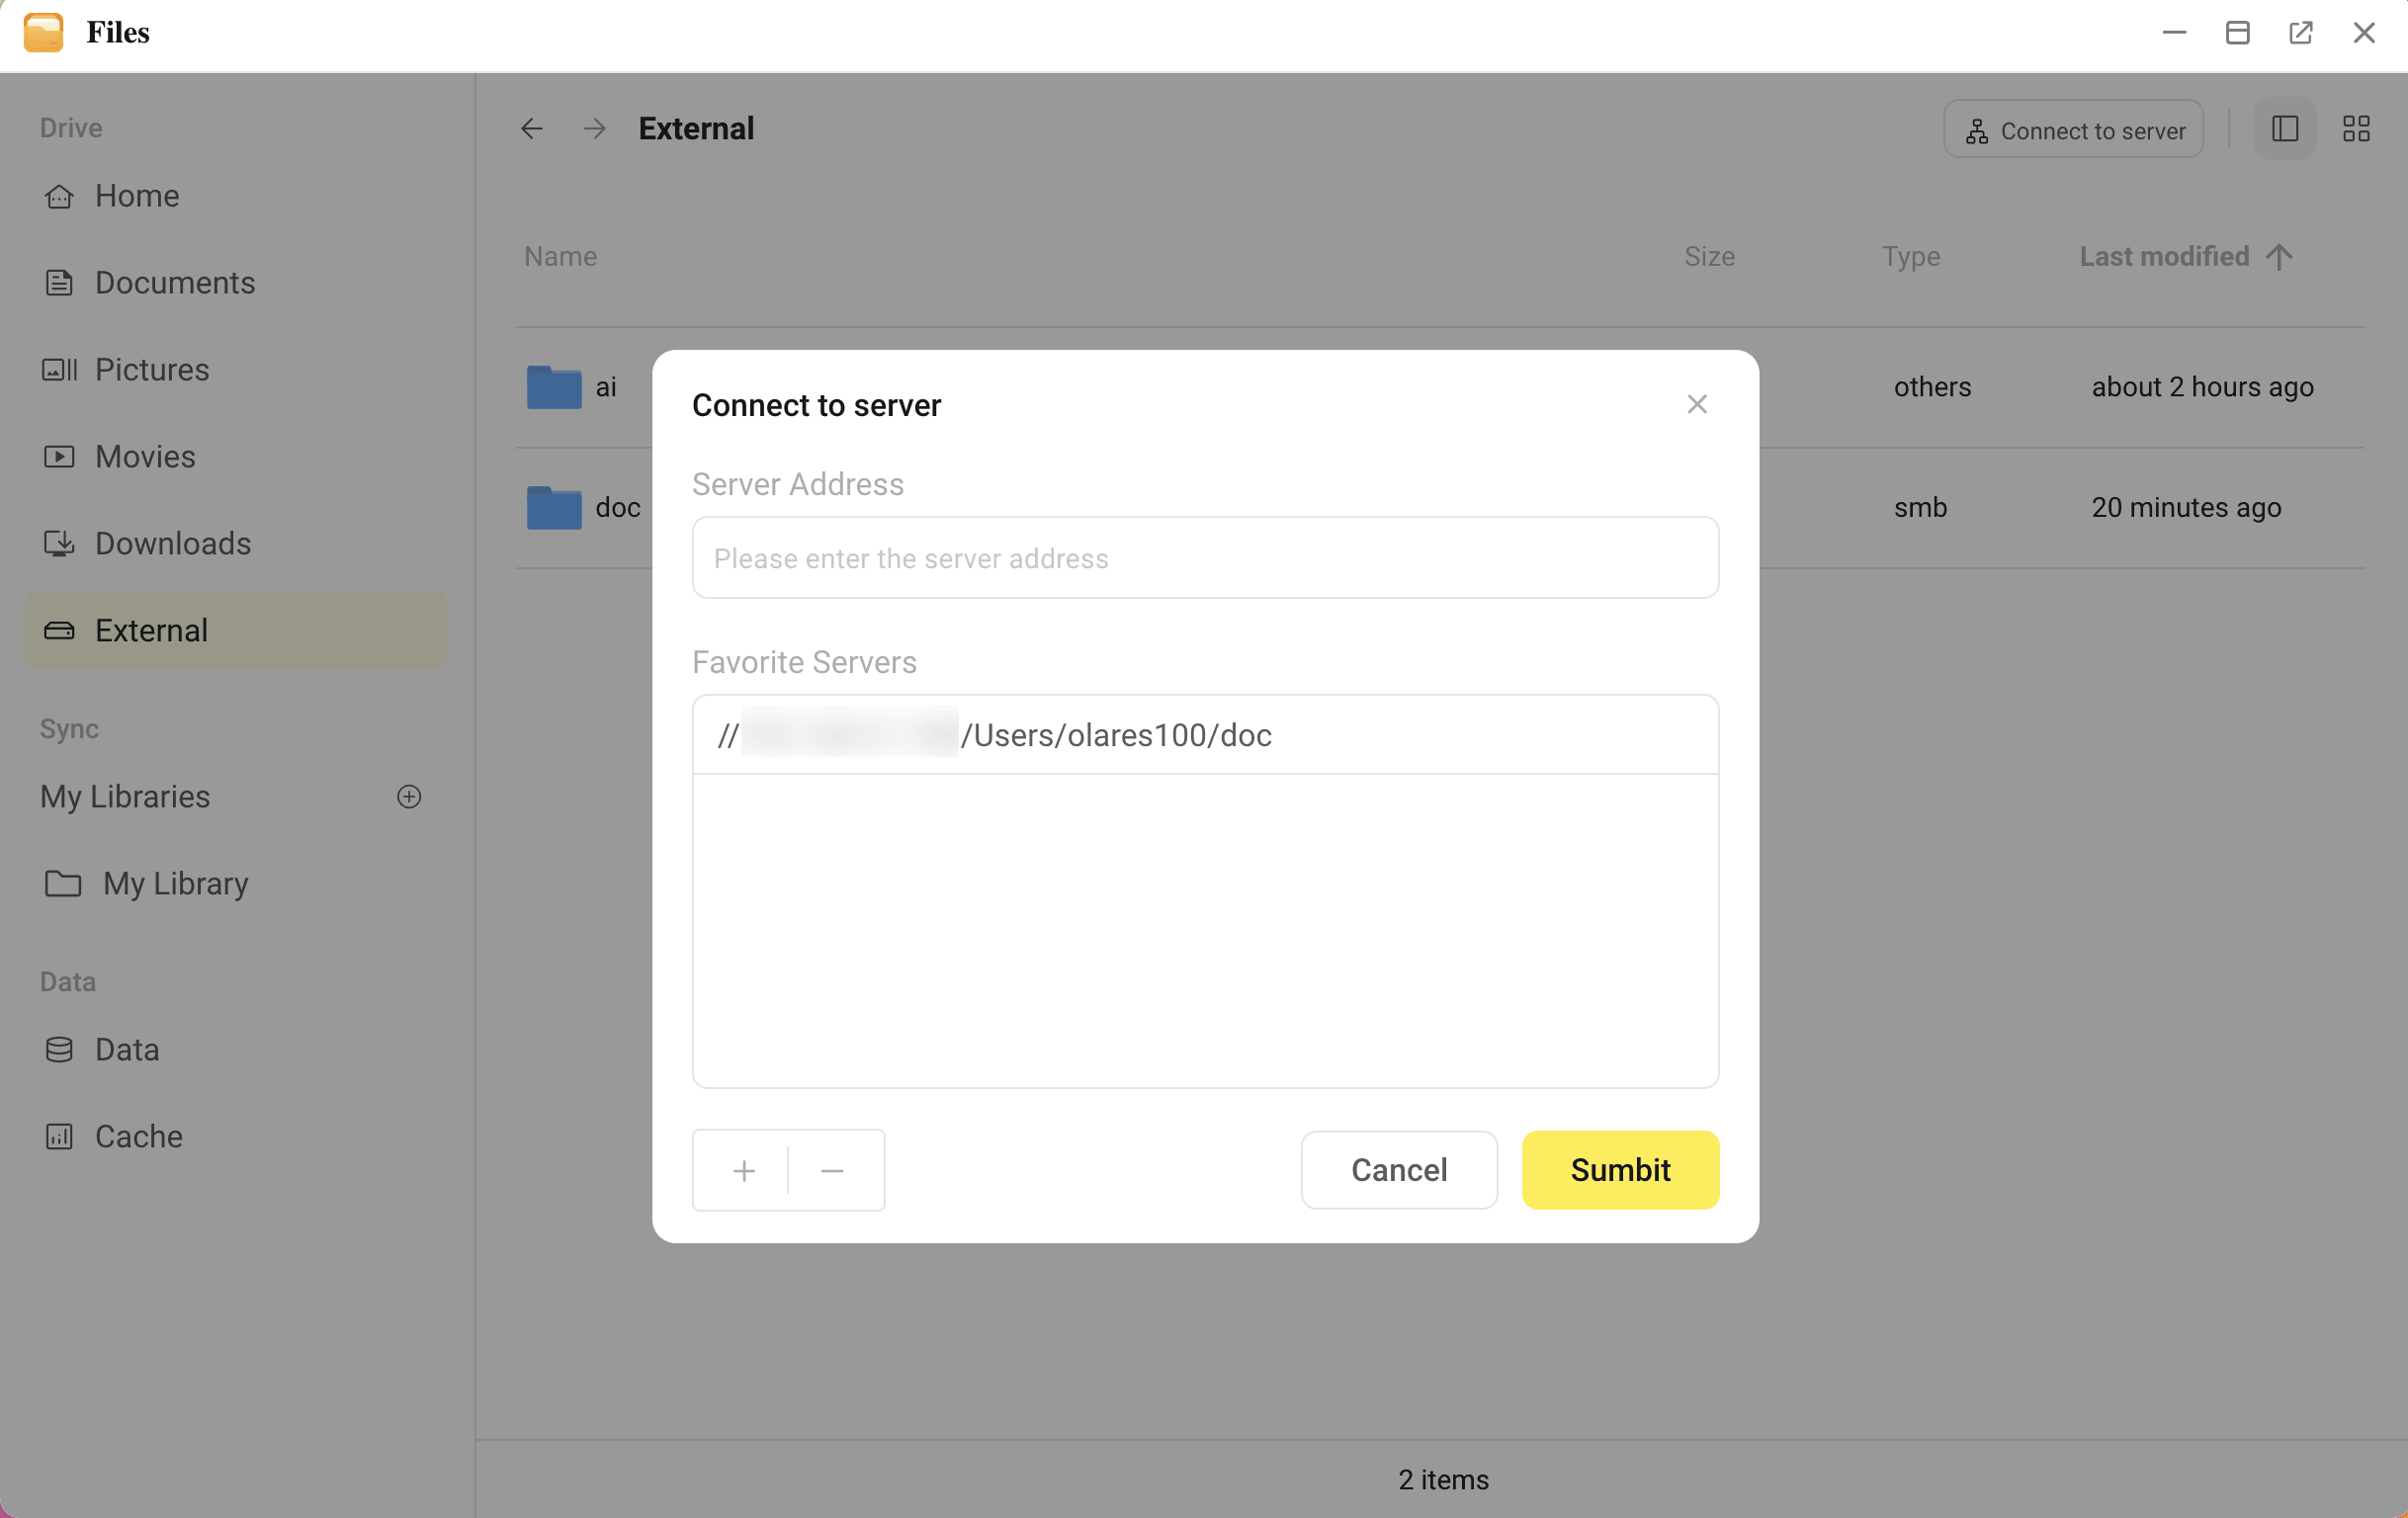
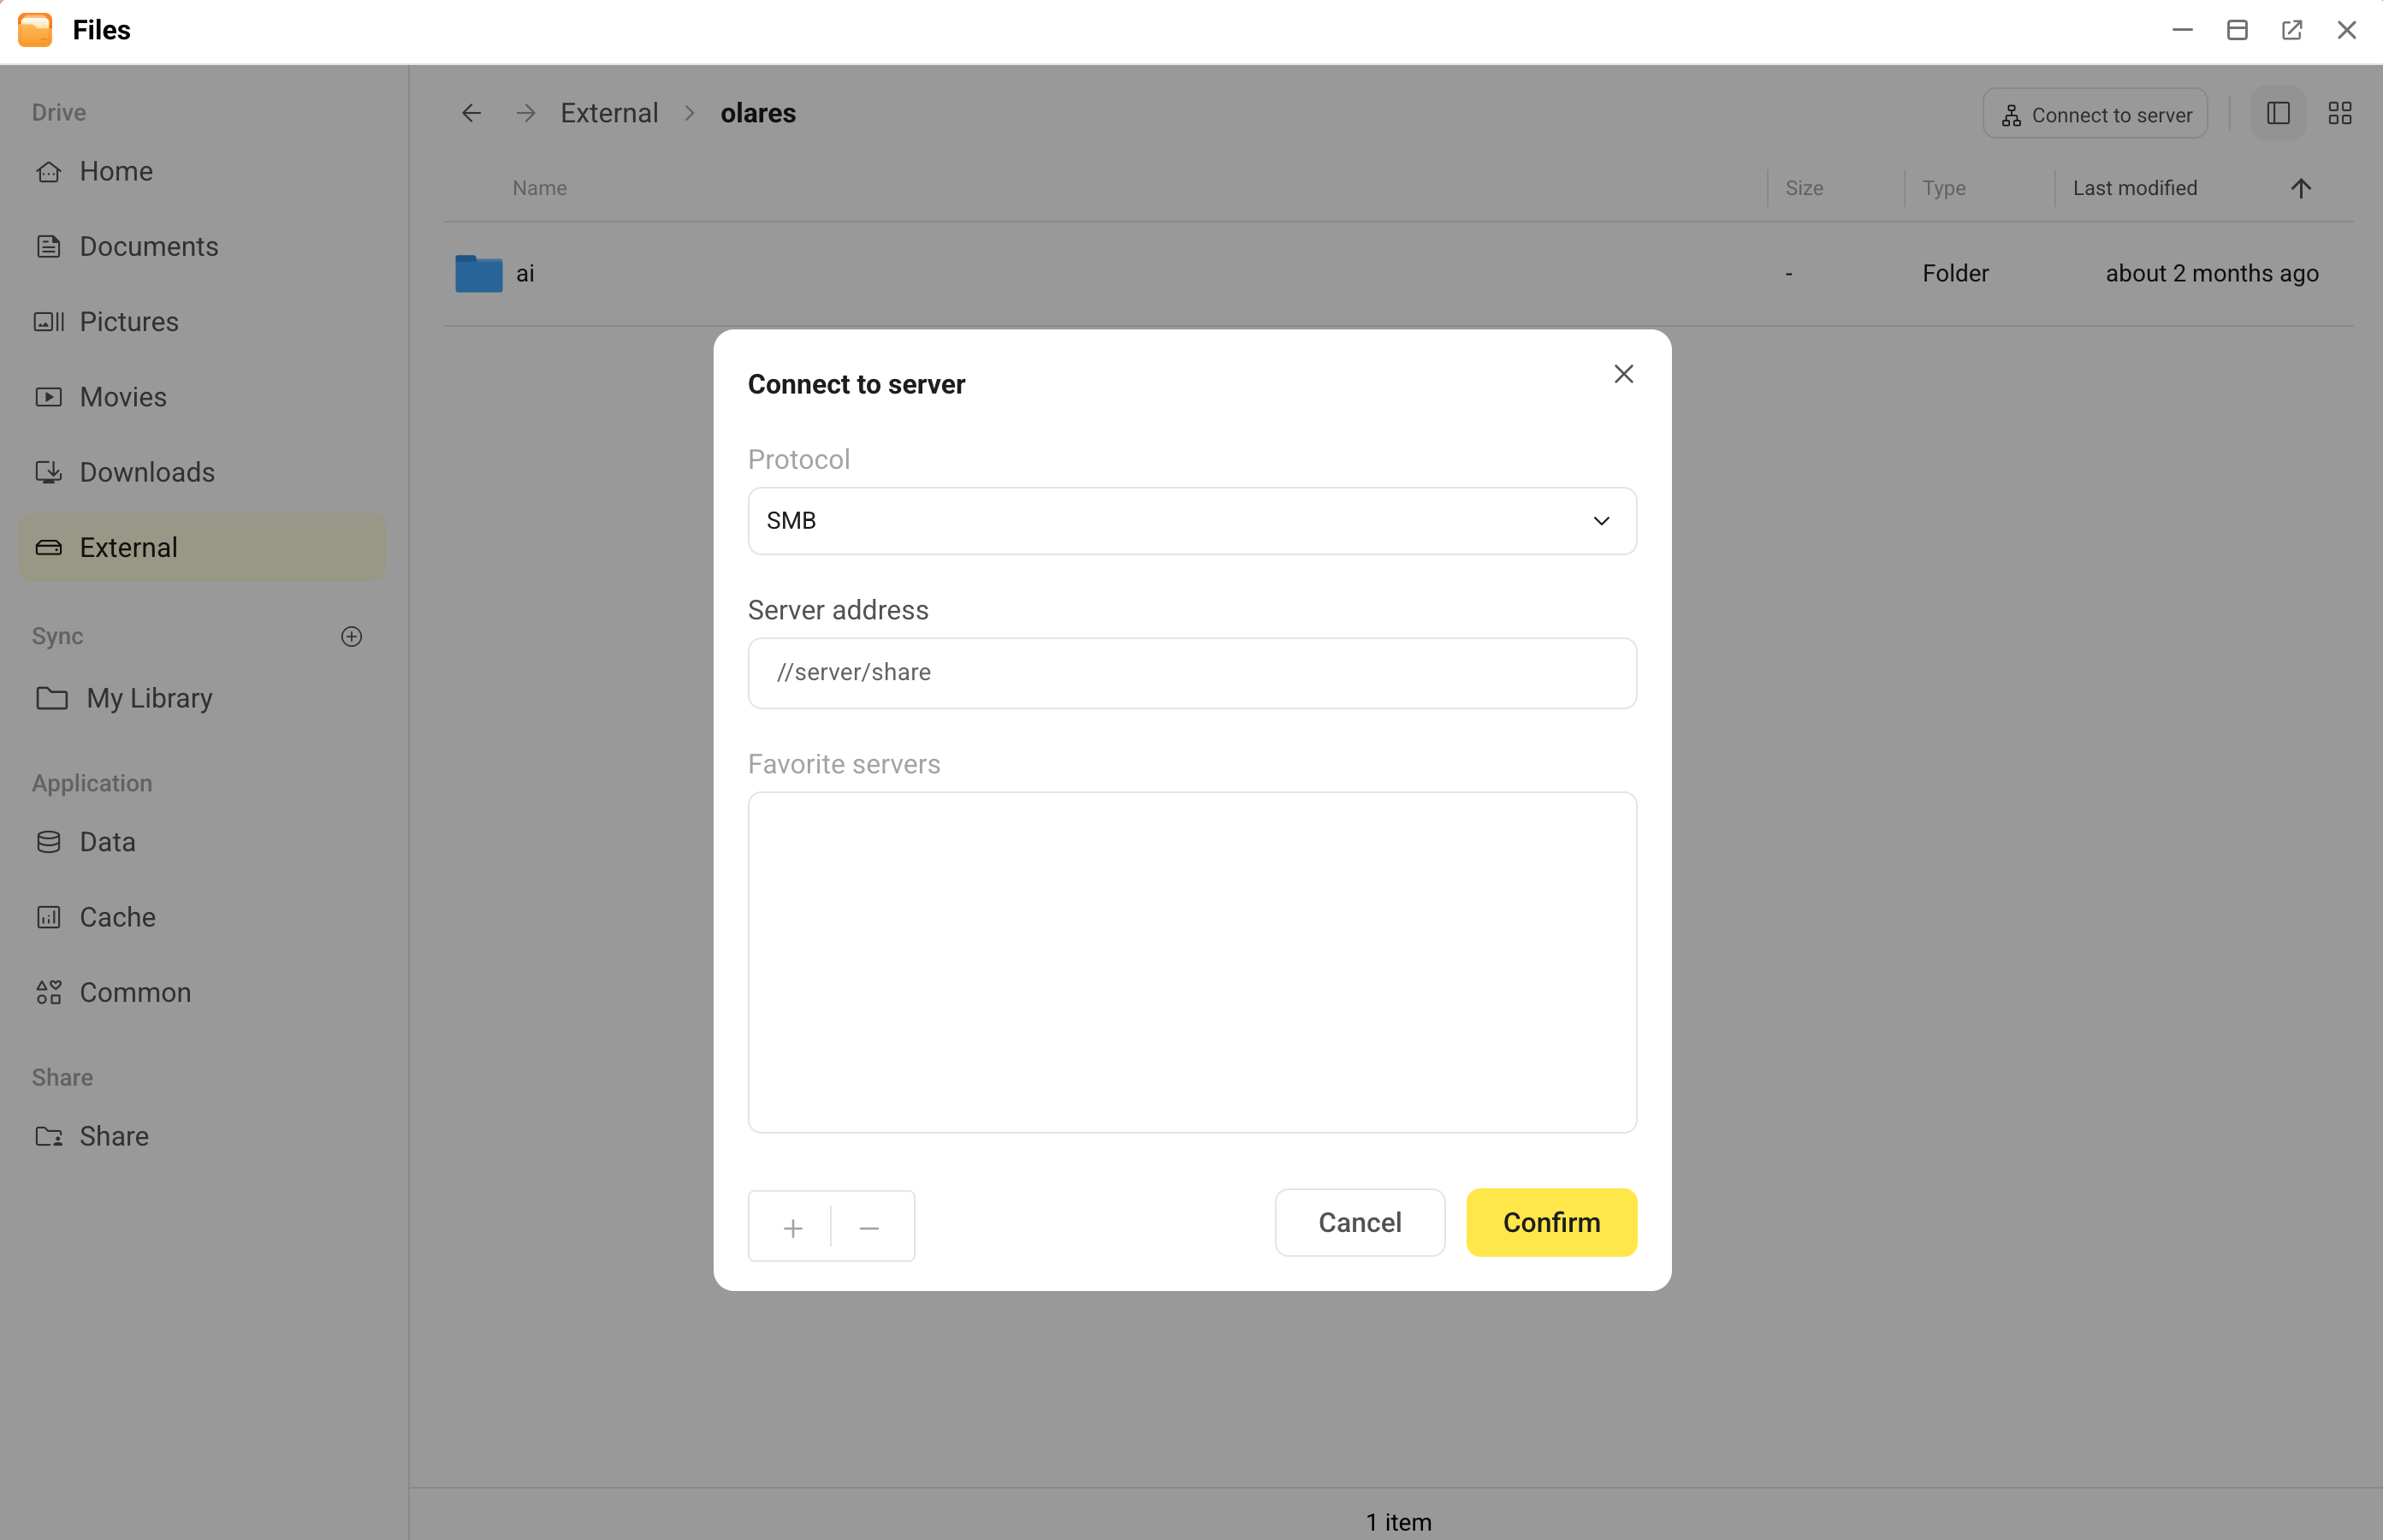
docs: add NFS mount guide (#3329)
* initial draft

* address comments

* Apply suggestions from code review

* remove faq

---------

Pull request: docs: add NFS mount guide
Title: Add NFS mount guide

* **Background**
    - Add NFS mount guide (EN/ZH)
    - Update SMB mount guide due to interaction changes (EN/ZH)
    - Update screenshots

* **Target Version for Merge**
1.12.6

* **Related Issues**
None.

* **PRs Involving Sub-Systems** 
None.

* **Other information**:
None.

<!-- CURSOR_SUMMARY -->
---

> [!NOTE]
> **Low Risk**
> Documentation and navigation only; no application code, auth, or data-handling changes.
> 
> **Overview**
> Adds **English and Chinese** manual pages for mounting **NFS** shares from Files (**Drive** > **External** > **Connect to server**), including IP-only vs `IP:path` addressing, optional share listing, favorites, and unmount steps. **Mount NFS** is wired into the VitePress sidebars in `en.ts` and `zh.ts`.
> 
> **SMB** mount docs in both locales are rewritten to match the updated connect flow: explicit **Protocol** selection (**SMB**), **Confirm** instead of **Submit**, refreshed screenshots, and clearer unmount wording. Front matter gains `outline: [2, 3]` on the touched pages.
> 
> <sup>Reviewed by [Cursor Bugbot](https://cursor.com/bugbot) for commit ec07903f5f0bb7300b97e83475944181bae26540. Bugbot is set up for automated code reviews on this repo. Configure [here](https://www.cursor.com/dashboard/bugbot).</sup>
<!-- /CURSOR_SUMMARY -->

diff --git a/docs/.vitepress/en.ts b/docs/.vitepress/en.ts
@@ -253,6 +253,10 @@ const side = {
               link: "/manual/olares/files/mount-SMB",
             },
             {
+              text: "Mount NFS",
+              link: "/manual/olares/files/mount-nfs",
+            },
+            {
               text: "Mount cloud storage",
               link: "/manual/olares/files/mount-cloud-storage",
             },

diff --git a/docs/.vitepress/zh.ts b/docs/.vitepress/zh.ts
@@ -251,6 +251,10 @@ const side = {
               link: "/zh/manual/olares/files/mount-SMB",
             },
             {
+              text: "挂载 NFS",
+              link: "/zh/manual/olares/files/mount-nfs",
+            },
+            {
               text: "挂载云存储",
               link: "/zh/manual/olares/files/mount-cloud-storage",
             },

diff --git a/docs/manual/olares/files/mount-SMB.md b/docs/manual/olares/files/mount-SMB.md
@@ -1,31 +1,43 @@
 ---
-description: Learn how to mount and access SMB shared folders from NAS devices or network servers in Olares. Step-by-step guide for connecting to SMB shares and managing network files.
+outline: [2, 3]
+description: Learn how to mount and access SMB shared folders from NAS devices or network servers directly in Olares.
 ---
+
 # Mount SMB shares
-SMB (Server Message Block) is a protocol used to share files, printers, and other resources over a network. If you have a network-attached storage (NAS) device or another SMB server in LAN, you can easily mount SMB shares in Olares to access and manage shared files.
+
+SMB (Server Message Block) is a protocol used to share files, printers, and other resources over a network. If you have a network-attached storage (NAS) device or another SMB server on your local network, you can easily mount SMB shares in Olares to access and manage your shared files.
 
 ## Before you begin
-- Your Olares and the SMB server (e.g. a NAS device) must be on the same local network.
-- You have the following SMB share details:
-  - **SMB share path**: This will typically look like `//<IP-address>/<Shared-folder-name>`.
-  - **Username and password**: Credentials for accessing the SMB share.
 
-## Mount SMB share to Olares
-1. Open Files, and navigate to **Drive** > **External**.
-2. Click **Connect to server** in the top-right corner.
-3. Enter the SMB share path (e.g., `//192.168.1.100/Documents`) in the **Server Address** field and click **Submit**.
-   :::tip Save frequently used server addresses
-   - To add a server address to **Favourite Servers**, click <i class="material-symbols-outlined">add</i> after entering the share path.
-   - To remove a saved server, click the server path under **Favourite Servers**, then click <i class="material-symbols-outlined">remove</i>.
-   :::
-   ![Add SMB share path](/images/manual/olares/add-SMB-share-path.png#bordered)
-4. Enter the username and password, then click **Submit**.
+- Ensure Olares and the SMB server are on the same local network.
+- You have obtained the following details:
+  - The SMB share path, which is typically in the format of `//<IP-address>/<Shared-folder-name>`.
+  - The username and password required to access the SMB share.
 
-Once connected, the SMB share will appear in **External** directory, allowing you to access shared files and folders seamlessly.
+## Mount an SMB share
 
-## Unmount SMB share
-To unmount an SMB share:
-1. Open Files, and navigate to **Drive** > **External**.
-2. Right-click on the mounted folder, then select **Unmount** from the context menu.
+1. Open the Files app, and then go to **Drive** > **External**.
+2. Click **Connect to server** in the upper-right corner.
+3. In the popup window, click the **Protocol** list, and then select **SMB**.
 
-The SMB share will be safely disconnected from your Olares.
+    ![Configure SMB connection](/images/manual/olares/add-SMB-share-path.png#bordered)
+
+4. In the **Server address** field, enter the SMB share path. For example, `//192.168.1.100/Documents`.
+5. (Optional) Save frequently used server addresses for quick access next time:
+
+    - To add an address to **Favorite servers**, click <i class="material-symbols-outlined">add</i> after entering the share path.
+    - To remove a saved address, click it in **Favorite servers**, and then click <i class="material-symbols-outlined">remove</i>.
+
+6. Click **Confirm**.
+7. Enter the username and password, and then click **Confirm**.
+
+    Once connected, the SMB share appears in the **External** directory, and you can access your shared files and folders seamlessly.
+
+## Unmount an SMB share
+
+When you no longer need access to the network files, you can safely disconnect the share.
+
+1. Open the Files app, and then go to **Drive** > **External**.
+2. Right-click the mounted folder, and then select **Unmount**. 
+
+    The SMB share is disconnected from Olares immediately, and is removed from the **External** directory.

diff --git a/docs/zh/manual/olares/files/mount-SMB.md b/docs/zh/manual/olares/files/mount-SMB.md
@@ -1,31 +1,43 @@
 ---
-description: 了解如何在 Olares 中挂载和访问来自 NAS 设备或网络服务器的 SMB 共享文件夹。包含连接 SMB 共享和管理网络文件的详细步骤说明。
+outline: [2, 3]
+description: 了解如何在 Olares 中挂载和访问来自 NAS 设备或网络服务器的 SMB 共享文件夹。
 ---
+
 # 挂载 SMB 共享
+
 SMB（Server Message Block，服务器消息块）是一种用于在网络上共享文件、打印机和其他资源的协议。如果你的局域网中有 NAS 设备或其他 SMB 服务器，可以轻松地将 SMB 共享挂载到 Olares 中来访问和管理共享文件。
 
 ## 准备工作
-- Olares 与 SMB 服务器（如 NAS 设备）必须处于同一局域网中。
-- 已经获取以下 SMB 共享信息：
-    - **SMB 共享路径**：通常格式为 `//<IP地址>/<共享文件夹名>`。
-    - **用户名和密码**：用于访问 SMB 共享的登录凭据。
 
-## 将 SMB 共享文件夹挂载到 Olares
-1. 打开**文件管理器**，进入**存储** > **外部设备**。
+- 确保 Olares 与 SMB 服务器处于同一局域网中。
+- 你已经获取以下信息：
+    - SMB 共享路径，通常格式为 `//<IP地址>/<共享文件夹名>`。
+    - 访问 SMB 共享的用户名和密码。
+
+## 挂载 SMB 共享
+
+1. 打开文件管理器，进入**存储** > **外部设备**。
 2. 点击右上角的**连接服务器**。
-3. 在**服务器地址**栏中输入 SMB 共享路径（例如：`//192.168.1.100/Documents`），然后点击**确定**。
-   :::tip 保存常用服务器地址
-    - 输入共享路径后，点击 <i class="material-symbols-outlined">add</i> 可将服务器地址添加到**常用服务器**。
-    - 要删除已保存的服务器，点击**常用服务器**下的服务器路径，然后点击 <i class="material-symbols-outlined">remove</i>。
-    :::
-    ![添加 SMB 共享路径](/images/manual/olares/add-SMB-share-path.png#bordered)
-4. 输入**用户名**和**密码**，然后点击**确定**。
+3. 在弹出的对话框中，点击**协议**下拉菜单，然后选择 **SMB**。
 
-连接成功后，SMB 共享将显示在**外部设备**目录中，你就可以方便地访问共享文件和文件夹了。
+    ![配置 SMB 连接](/images/zh/manual/olares/add-SMB-share-path.png#bordered)
+
+4. 在**服务器地址**栏中，输入 SMB 共享路径。例如：`//192.168.1.100/Documents`。
+5. （可选）保存常用服务器地址，方便下次快速连接：
+
+    - 输入共享路径后，点击 <i class="material-symbols-outlined">add</i> 可将服务器地址添加到**常用服务器**。
+    - 要删除已保存的地址，点击**常用服务器**下的地址，然后点击 <i class="material-symbols-outlined">remove</i>。
+
+6. 点击**确认**。
+7. 输入用户名和密码，然后点击**确认**。
+
+    连接成功后，SMB 共享将显示在**外部设备**目录中，然后你就可以直接在此访问共享文件和文件夹了。
 
 ## 卸载 SMB 共享
-要卸载 SMB 共享：
-1. 打开**文件管理器**，进入**存储** > **外部设备**。
-2. 右键选择已挂载的 SMB 共享文件夹，从上下文菜单中选择**卸载**。
 
-完成后，Olares 将与 SMB 文件夹安全断开连接。
+不再需要访问网络文件时，你可以安全地断开共享。
+
+1. 打开文件管理器，进入**存储** > **外部设备**。
+2. 右键点击已挂载的文件夹，然后选择**卸载**。
+
+    SMB 共享会立即与 Olares 断开连接，并从**外部设备**目录中被移除。

diff --git a/docs/manual/olares/files/mount-nfs.md b/docs/manual/olares/files/mount-nfs.md
@@ -1,0 +1,46 @@
+---
+outline: [2, 3]
+description: Mount and access NFS shared directories from NAS devices or servers on Olares.
+---
+
+# Mount NFS shares
+
+Network File System (NFS) is a widely used protocol for accessing files over a network. If you have an NFS server on your local network, you can easily mount NFS shares to Olares and access and manage shared files as if they were local folders.
+
+## Before you begin
+
+- Ensure Olares and the NFS server are on the same local network with stable connectivity.
+- You have the following information:
+  - **NFS server IP address**: For example, `192.168.1.100`.
+  - **NFS share directory path**: For example, `/volume1/share` or `/export/data`.
+
+## Mount an NFS share
+
+1. Open the Files app, and then go to **Drive** > **External**.
+2. Click **Connect to server** in the upper-right corner.
+3. In the popup window, click the **Protocol** list, and then select **NFS**.
+
+   ![Select NFS protocol](/images/manual/olares/files-connect-nfs-protocol.png#bordered)
+
+4. In the **Server address** field, enter the NFS share address. Two input formats are supported:
+
+   - **IP address**: For example, `192.168.1.100`. The system will automatically try to connect to the server and list the available shares for you to select.
+   - **IP address with path**: For example, `192.168.1.100:/volume1/share`. This mounts the specified path directly, skipping the directory selection step.
+
+5. (Optional) Click <i class="material-symbols-outlined">add</i> in the lower-left corner to add the current server address to **Favorite servers** for quick access next time.
+
+6. Click **Confirm**.
+
+   - If you entered only the IP address, the system will query all available NFS shares on the server. In the popup window, select the share you want to mount from the list, and then click **Confirm**.
+   - If you entered the full path, the system will try to mount the directory directly.
+
+7. After the connection is successful, the NFS share appears in the **External** directory. You can browse and manage files in it just like a local folder.
+
+## Unmount an NFS share
+
+If you no longer need to access the NFS share, you can safely unmount it.
+
+1. Open the Files app, and then go to **Drive** > **External**.
+2. Right-click the NFS share directory you want to unmount, and then select **Unmount**.
+
+   The share is immediately disconnected from Olares and removed from the **External** directory.

diff --git a/docs/zh/manual/olares/files/mount-nfs.md b/docs/zh/manual/olares/files/mount-nfs.md
@@ -1,0 +1,44 @@
+---
+outline: [2, 3]
+description: 了解如何在 Olares 中挂载和访问来自 NAS 设备或服务器的 NFS 共享目录。包含连接 NFS 共享和管理网络文件的详细步骤。
+---
+
+# 挂载 NFS 共享
+
+NFS（Network File System，网络文件系统）是一种广泛使用的网络文件访问协议。如果你的局域网中有 NFS 服务器，可以轻松将 NFS 共享挂载到 Olares 中，像使用本地文件夹一样访问和管理共享文件。
+
+## 准备工作
+
+- Olares 与 NFS 服务器必须处于同一局域网中，且网络通畅。
+- 已经获取以下 NFS 共享信息：
+    - **NFS 服务器 IP 地址**：例如 `192.168.1.100`。
+    - **NFS 共享目录路径**：例如 `/volume1/share` 或 `/export/data`。
+
+## 将 NFS 共享挂载到 Olares
+
+1. 打开文件管理器，进入**存储** > **外部设备**。
+2. 点击右上角的**连接服务器**。
+3. 在弹出的对话框中，点击**协议**下拉菜单，选择 **NFS**。
+   
+   ![选择 NFS 协议](/images/zh/manual/olares/files-connect-nfs-protocol.png#bordered)
+
+4. 在**服务器地址**栏中，输入 NFS 共享地址。支持两种输入格式：
+   
+   - **IP 地址**：例如 `192.168.1.100`。系统会自动尝试连接该服务器并列出可挂载的共享目录供你选择。
+   - **IP 地址加路径**：例如 `192.168.1.100:/volume1/share`。直接挂载指定路径，跳过目录选择步骤。
+
+5. （可选）点击左下角的 <i class="material-symbols-outlined">add</i>，将当前服务器地址添加到**常用服务器**，方便下次快速选择并连接。
+
+6. 点击**确认**。
+   
+   - 如果输入的是 IP 地址，系统会查询该服务器上所有可用的 NFS 共享目录。在**选择挂载目录**弹窗中，选择需要挂载的目录，然后点击**确认**。
+   - 如果输入的是完整路径，系统会直接尝试挂载该目录。
+
+7. 连接成功后，NFS 共享将显示在**外部设备**目录中。你可以像操作本地文件夹一样浏览和管理其中的文件。
+
+## 卸载 NFS 共享
+
+如果你不再需要访问该 NFS 共享，可以将其卸载。
+
+1. 打开文件管理器，进入**存储** > **外部设备**。
+2. 右键点击要卸载的 NFS 共享目录，然后选择**卸载**。该共享会立即与 Olares 断开连接，并从**外部设备**目录中被移除。